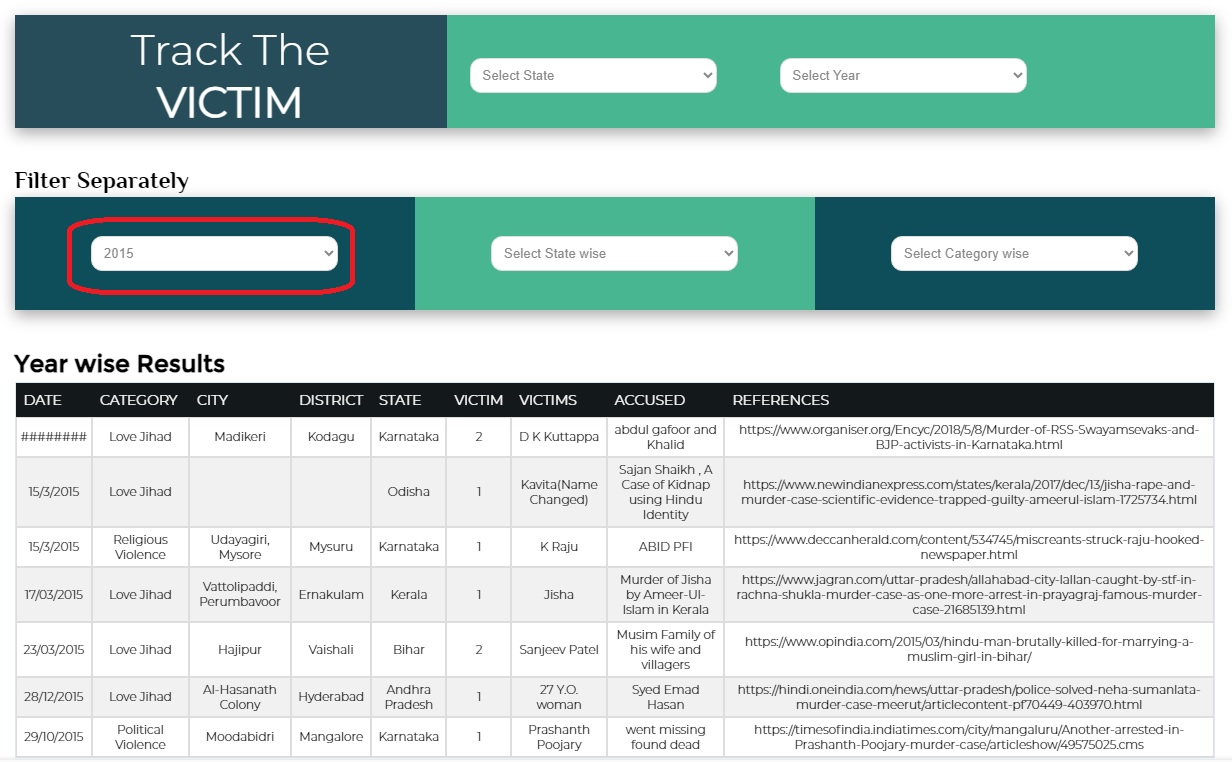
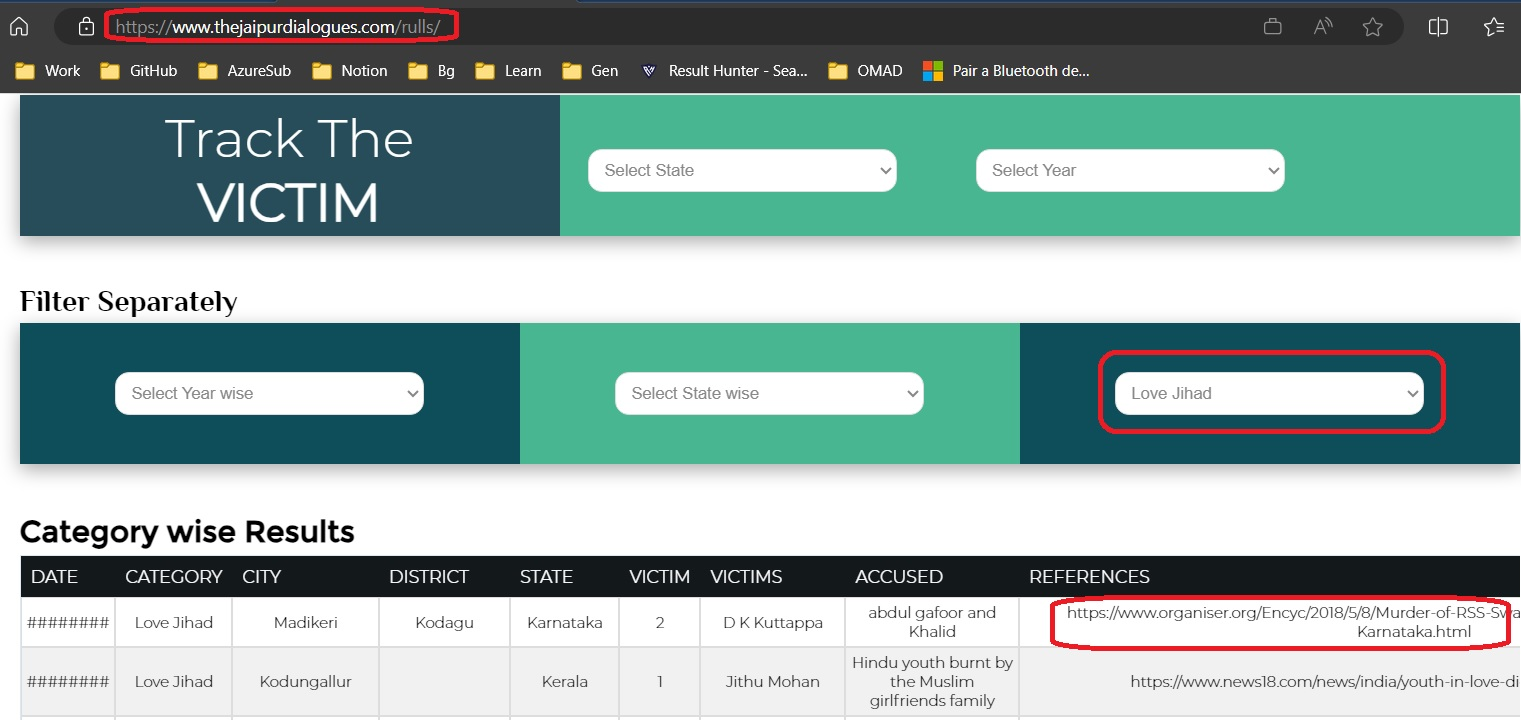
Added more info

diff --git a/src/GeneralInsidents/ReadMe.md b/src/GeneralInsidents/ReadMe.md
@@ -318,3 +318,87 @@ What if these questions are asked in the parlament?
 
 What ever he accuses of congress, he himself does it.
 https://www.youtube.com/watch?v=Fl1dC3si070
+
+
+https://youtu.be/JSbEY1e6cKc?t=3515
+Gujarat HC sentences 4 Gujarat cops police  to 14 days in jail for public flogging of 5 men
+
+What is their crime? The police had punished stone pelters. 
+How dare the police do that? 
+So what did that double engine Sarkar do?
+Filed a case againest them. 
+Yup!! The BJP Sarkar, the Hindu Hriday Samraat sarkar, Aache din lane wale sarkar has filed case againest the police.
+
+The message is silent and clear. 
+Dare not even look at Modi pple. 
+
+https://www.hindustantimes.com/india-news/4-gujarat-cops-sentenced-to-14-days-in-prison-for-publicly-flogging-muslim-men-101697702779322.html
+https://www.newindianexpress.com/nation/2023/Oct/20/gujarat-hc-sentences-4-cops-to-14-days-in-jail-for-public-flogging-of-5-men-2625613.html
+
+
+
+https://youtu.be/JSbEY1e6cKc?t=3700
+
+The Army officers are court marshelled, treating them like regular offenders.
+What is the offence? They encountered the jihadies.
+And what do you expect, the supreme leader got angry. 
+See for your self how this man is bragging blatently about it. 
+He is saying, my govt has launched an FIR aginest army for the first time. 
+https://www.youtube.com/watch?v=cZuT1DRqLPI&t=1560s
+He is systematically removing the spine from the armed forces, what to speak of regular Hindus.
+This happened 9 years ago, and boy, did we ever knew it?
+Even after look at this Video, still pple think this man to be Hindu Hriday Samrat, then only Lord Ram can help.
+Just think about it.
+Here comes this man to give justice to Kashmiries. So the army is doing injustice to Kashmiries right?
+Is this not the nerative of the Pakistan? What does Anti India forces say?
+Isnt this Jihadi Modi building the exact same nerative?
+Can you imagine the morale of the Armed forces.
+
+
+Do you know why BJP sarkar is delaying 2021 census. 
+Every this is degitilised and Aadhar is manditory. Govt has all the data. 
+Any one with a mobile has to reveal that data to the govt, the Aadhar number etc.
+But the govt does not want to others to know the same data.
+Another reason is Pasmanda number is double.
+https://youtu.be/JSbEY1e6cKc?t=3868
+
+In Western utter pradesh, brutal killings of saints, Brahmana, pujaries are today rampent.
+So congratulations for the Ram Rajya.
+https://youtu.be/JSbEY1e6cKc?t=3947
+https://www.jagran.com/uttar-pradesh/ayodhya-assistant-priest-of-hanuman-garhi-murdered-by-slitting-his-throat-when-police-reached-there-he-found-a-blood-soaked-body-23560082.html
+
+
+चौथी के छात्र ने हिंदू सहपाठी को ब्लेड मारा, शिकायत पर घरवालों को बुलाया: मुस्लिम अभिभावकों ने कक्षा में घुस बच्चों को गला घोंटा, 2 गिरफ्तार
+https://hindi.opindia.com/national/muslim-student-studying-in-class-4-in-vadodara-hit-a-hindu-student-with-a-blade/
+Double Engine Gujarat Model | Bjp Leader Kamal Rawat Champawat | Pushkar Singh Dhami |New Video 2023
+https://www.youtube.com/watch?v=Y6E0lmgp1TA&t=53s
+
+
+Prime Minister Narendra Modi’s washerman from 1970s dies in Godhra
+https://www.youtube.com/watch?v=_HJan2WXiQM&t=274s
+Narendra Modi spent a decade in the Rani Masjid Godhra as RSS Pracharak | New Video 2023
+
+https://youtu.be/IR8xH_wzWJU?t=683
+Fake government office in Gujarat swindled over Rs 4.15 crore govt funds in three years, two held
+https://www.deccanherald.com/india/gujarat/fake-government-office-in-gujarat-swindled-over-rs-415-crore-govt-funds-in-three-years-two-held-2745636
+
+
+https://youtu.be/IR8xH_wzWJU?t=752
+Gujarat ex-IAS officer arrested for running fake govt offices, siphoning Rs 18 crore
+https://indianexpress.com/article/cities/ahmedabad/gujarat-ex-ias-officer-arrested-for-running-fake-govt-offices-9046404/
+Ex-IAS officer arrested over Rs 18 crore scam
+http://timesofindia.indiatimes.com/articleshow/105579824.cms?utm_source=contentofinterest&utm_medium=text&utm_campaign=cppst
+
+BJP to deploy 30 lakh social media workers for 2024 polls
+https://indianexpress.com/article/cities/mumbai/bjp-to-deploy-30-lakh-social-media-workers-for-2024-polls-8968860/
+
+
+
+Modi Mocks At KCR’s Nimbu Mirchi Rituals, Brands Him Insecure Leader
+https://m.sakshipost.com/telangana-politics/2018/11/27/modi-mocks-at-kcrs-nimbu-mirchi-rituals-brands-him-insecure-leader
+
+Telangana CM K Chandrasekhar Rao is superstitious, relies on astrology, poojas, mirchi–nimbu: Prime Minister Narendra
+
+Read more at:
+https://mumbaimirror.indiatimes.com/news/india/telangana-cm-k-chandrasekhar-rao-is-superstitious-relies-on-astrology-poojas-mirchinimbu-prime-minister-narendra-modi/articleshow/66826208.cms?utm_source=contentofinterest&utm_medium=text&utm_campaign=cppst
+

diff --git a/src/RullsDataBase_InternalSecurity/ReadMe.md b/src/RullsDataBase_InternalSecurity/ReadMe.md
@@ -1,6 +1,4 @@
 
-
-
 RULLS database
 
 Random Unceasing Low Level Scattered Violence
@@ -9,20 +7,91 @@ https://www.thejaipurdialogues.com/rulls/
 
 https://www.youtube.com/watch?v=Y6E0lmgp1TA
 
-![Rulls Filter](50_50_Rulls_Filter.jpg)
-
-How many of you came accross RULLS database?
-
-RULLS stands for Random Unceasing Low Level Scattered Violence
-
-Take a look at the following link. Open in a computer and not on a mobile. You can filter and get the links and details of news articles as well. 
-
 https://www.thejaipurdialogues.com/rulls/
 
-Right to self defence.
-Are we safe, Are our families safe, and can we follow our relegion. 
-The answer for all of the three is resounding NO.
 The number is staggering. 
 Amrutkaal इमरतीलाल का अमृतकाल! || #ISD || Sandeep deo || Akshay Kapoor || Dr. Shilpi Tiwari
 https://youtu.be/tVhtAQVMQXc?t=211
+
+
+-----------------------------------------------------
+
+Respected Prabhuji.
+
+Please Kindly be patent. I am talking based on data.
+
+Please look at the following database. Its scary to say the least.
+
+Its called RULLS. Has anyone of you heard of this before?
+
+It stands for Random Unceasing Low Level Scattered Violence. Key words here are Random and Scattered.
+
+Please take the following steps one by one patiently.
+
+1. Visit https://www.thejaipurdialogues.com/rulls/ web page on a computer and not on a mobile. It will be too small to see on mobile. 
+
+2. Note, if you have a VPN, you may need to turn it off. With my company VPN in place, this page is not showing up. I had to turn it off to see this page.
+
+3. Please read what they are saying about this page. Then scroll down till you see Track The VICTIM and Filter Separately section as follows.
+
+![Rulls Filter](50_50_Rulls_Filter.jpg)
+
+4. Try applying some filter using drop downs, you should see some table data being populated below it. Sometimes no data may show up, may be due to no data present for that filtration. 
+
+5. I am not sure; the filtration is working 100% correctly. But any most of the time it showing some data.
+
+6. In the last column of the you should see references. Try copying some of the urls there and paste it in a browser to ensure they are not broken.  
+
+7. Take some time and study this data. Again, on a computer not from a mobile. 
+
+8. Scroll down till the end. You should see some analytics, stacked bar, and donut charts. Please take time to study them as well. It’s not very thorough but should give some idea.
+
+![Analytics](51_50_Analytics.jpg)
+
+Ok. Now some questions that may arise.
+
+About authenticity of this data. 
+
+Firstly, the links given in the references seems to be correct. I checked many of them.
+
+Secondly, is there a possibility that this analytics is manipulated to show that its increasing from 2014. Possible. Maybe I dont know. 
+But I do trust The Jaipur Dialogs founder Sanjay Dixit Ji. He is an Retd. IAS officer and I used to listen to his Videos. 
+Please note that he still talks in favor of Modiji and not against him like I do. 
+
+So lets assume that this data is valid and correct. Now a few thoughts from my side.
+
+As you can see, they are steadily increasing. And I dont think it will come down any time soon.
+
+I tell you why. The Supreme Court gave 2.7 acre to winning side and 5 acers to the losing side.
+
+Just now we all celebrated Lord Ram festival. Everywhere there are flags and festive mode never seen before.
+
+Now close your eyes and think about this. Do you know what the other side is thinking. If you think, its no brainer. 
+
+Their kids are provokingly saying - we are just waiting to see how big your temple will be. We will build bigger one.
+
+With endless stream of funds, they are rapidly buying the surrounding properties with the aim of reaching the Main Ram temple in 5 years.
+
+So what do you think the trend of the above graph data in RULLS will be for this year?
+
+Its an emmergency out there. 
+
+Is there right to self-defense. Are we safe? Are our families safe? Can we follow our religion?
+The answer for all of the them is resounding NO.
+
+So therefore I say, Achee Din, Amrut Kaal, Ram Rajya are simply Jhumle for me. 
+
+Please understand, given my position, its difficult to put my point and you are making it even more difficult.
+
+Without patience we will not go anywhere. 
+
+So please kindly calm you mind, I believe the following Aarabhi pasuram should help.
+
+Thirupaavai Day 3, Ongi Ulagalandha- Arabhi- Kunnakudi Balamurali Krishna and Akkarai sisters
+
+https://www.youtube.com/watch?v=V9lRfc0VkXk
+
+
+
+
 

diff --git a/src/MarrageContract/ReadMe.md b/src/MarrageContract/ReadMe.md
@@ -1,0 +1,6 @@
+
+Theory of social contract.
+Do pariwar ke beech Sauda hai.
+
+https://youtu.be/43hBh9crBTo?t=31
+
